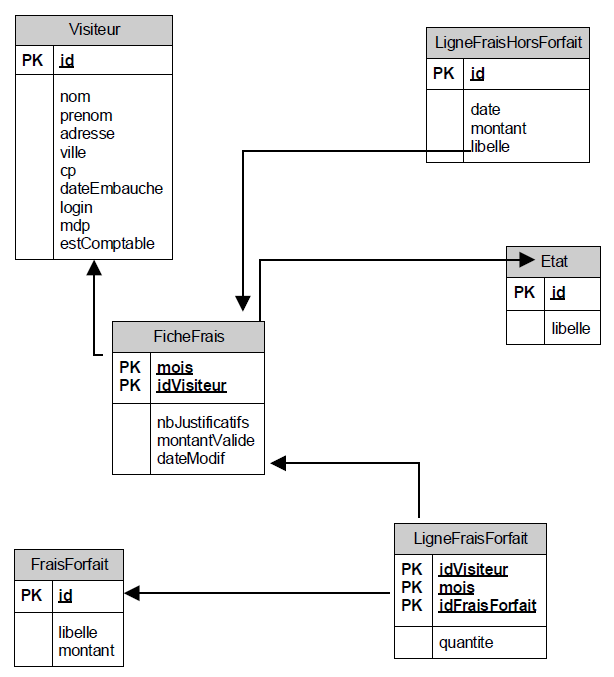
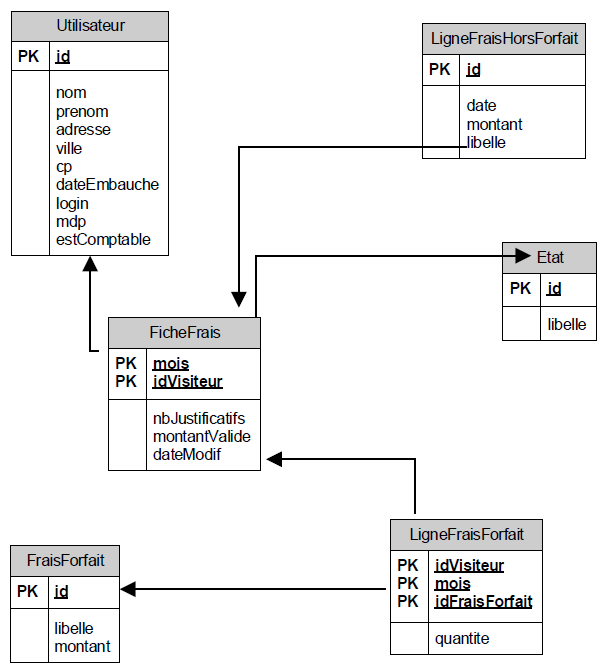
Création page gestion-cloture et modif gsb-frais

diff --git a/pages/competences/developpement-web.php b/pages/competences/developpement-web.php
@@ -6,20 +6,67 @@ require '../../inc/header.php';
 ?>
 
 <!-- 
-Création de sites en PHP/MySQL, HTML, CSS et JavaScript
-Création de ce portfolio en PHP
-Frameworks Symfony (lié à Prestashop)
-CMS Prestashop et Wordpress (description des différents projets)
-Architecture MVC (Modèle – Vue – Contrôleur)
-Bootstrap
+
+
+    VIA SANTE ET SSB BEGGIN
+
+Décrire brièvement mon parcours et la société (aussi ssb) et les 3 sites
+
+VOIR TABLEAU DE SYNTHESE
+-Joindre un maximum de screenshots et code pour prouver-
+
+---LIE AU DEV BEGGIN---
+CMS Prestashop
+    Présenter Prestashop : Framework PHP Symfony, Architecture MVC (Modèle – Vue – Contrôleur), fonctionnement via modules PHP pour pouvoir améliorer le site visuellement ou ajouter de nouvelles fonctionnalités
+    Création d'un module pour la personnalisation de la page "Contact" avec intégration de reCAPTCHA
+
+Travail collaboratif avec une spécialiste du SEM = SEA + SEO + SMO (versionning via GitHub)
+    → Search Engine Marketing =
+        Search Engine Advertising : publicité sur les moteurs de recherche
+        + Search Engine Optimization : référencement naturel
+        + Social Media Optimization : techniques et actions destinées à développer la visibilité, l'image et l'offre d'un site web ou d'une marque sur les réseaux ou médias sociaux
+
+Gestion des tâches grace à Trello et gestion du planning grace à Google Agenda
+
+Interactions lié aux campagne promotionnelles : (toutes les 3 semaines)
+    - extraction de la base de données, de fiches clients sélectionnés pour la promo
+    - formatage des données sur des fichiers Excel pour préparer l'envoi des campagnes e-mailing et envoi à l'imprimeur pour les campagnes courrier
+    - codage d'e-mail personnalisés en php et html
+---LIE AU DEV BEGGIN---
+---AUTRES---
+VOIR TABLEAU DE SYNTHESE
+Espace d'administration sur les 3 différents sites internet : 
+    Création, attribution des droits et gestion des comptes utilisateurs du back office selon le statut de l'employé (direction, comptable, saisie ou préparation de commande).
+Gestion du parc informatique
+    Installations, maintenance et mises à jours (hardware et sofware)
+    Résolution d'incidents sur les postes utilisateur ou sur le serveur
+    Gestion des sauvegardes du serveur et de la base de données
+    Achat, montage et installation de 3 nouveaux PC
+---AUTRES---
+
+Ce que je peux tirer de cette expérience professionnelle : 
+La participation à l'évolution informatique et digitale d'une petite entreprise (et de communiquer et collaborer avec d'autres professionnels), m'ont permis d'avoir une vision globale du potentiel évolutif que cela peut avoir. Gain de productivité, amélioration des ventes, de l'image des marques, mise en place d'un cercle vertueux avec le SMO, de la communication, ... (chercher sur google, les différents atouts de la digitalisation).
+L'inconvénient de travailler en tant que seul informaticien dans une petite entreprise est le fait de devoir gérer tout ce qui touche à l'informatique, allant de simples pannes d'imprimantes à de la création graphique ou de la création de campagnes Google Ads. Cela empêche de pouvoir évoluer rapidement dans une spécialité.
+-RESTRUCTURER AVANTAGES ET INCONVENIENTS ?- 
+
+    VIA SANTE ET SSB END
+
+
+COMPÉTENCES LIEES A CE DOMAINE : 
+    Création de sites en PHP/MySQL, HTML, CSS et JavaScript
+    Création de ce portfolio en PHP
+    CMS Prestashop et Wordpress (description des différents projets)
+    Bootstrap
 
 
 Ce qui me plait dans le développement web
-Je trouve génial de pouvoir créer des sites ou applications et de pouvoir ensuite les rendre facilement accessibles en ligne et ce, sur tous type de support.
+    Je trouve très intérressant de pouvoir créer des sites ou applications et de pouvoir ensuite les rendre facilement accessibles en ligne et ce, sur tous type de support.
 
 
 Mon projet professionnel
 Par la suite, je souhaiterais créer une auto-entreprise afin de proposer mes services dans ce domaine.
+
+
 -->
 
 

diff --git a/pages/projets/gsb-frais.php b/pages/projets/gsb-frais.php
@@ -151,8 +151,8 @@ require '../../inc/header.php';
                     </a>
                 </div>
                 <p class="text-justify">
-                    Pour pouvoir répondre aux besoins du cahier des charges et au différents cas d'utilisation décrits, j'ai ajouté un champ booléen "estcomptable" à la table "visiteur", qui est à 0 (faux) si l'utilisateur est un visiteur et à 1 (vrai) si c'est est un comptable.<br>
-                    Et ajouté de 2 nouvelles lignes à la table "visiteur". Ces lignes correspondent à l'ajout de 2 comptables, la valeur "estcomptable" est donc à 1 (true).
+                    Pour pouvoir répondre aux besoins du cahier des charges et au différents cas d'utilisation décrits, j'ai renommé la table "visiteur" en "utilisateur" et j'y ai ajouté un champ booléen "estcomptable", qui est à 0 (faux) si l'utilisateur est un visiteur et à 1 (vrai) si c'est est un comptable.<br>
+                    J'ai ensuite ajouté de 2 nouvelles lignes à la table "utilisateur", qui correspondent à l'ajout de 2 comptables, la valeur "estcomptable" est donc à 1 (true).
                 </p>
                 <p class="text-justify">
                     J'ai également ajouté à la table "etat", une ligne ayant les valeurs suivantes : <br>
@@ -246,8 +246,8 @@ require '../../inc/header.php';
             <div class="mb-5">
                 <h3 id="item-9">Conclusion</h3>
                 <p class="text-justify">
-                    Grâce à ce projet, je me suis rendu compte de l'importance de travailler sur un IDE avec des extentions comme Xdebug qui permettent de déboguer le code de manière efficace.<br>
-                    J'ai également pris conscience de la praticité de l'architecture MVC dans le développement web. Ce pattron de conception permet de mieux s'y retrouver, les fichiers sont bien organisés dans différents répertoires correspondant aux différentes parties logiques.
+                    Grâce à ce projet, je me suis rendu compte de l'importance de travailler sur un IDE avec des extensions comme Xdebug qui permettent de déboguer le code de manière efficace.<br>
+                    J'ai également pris conscience de la praticité de l'architecture MVC dans le développement web. Ce patron de conception permet de mieux s'y retrouver, les fichiers sont bien organisés dans différents répertoires correspondant aux différentes parties logiques.
                 </p>
             </div>
         </div>

diff --git a/pages/projets/gsb-gestion-cloture.php b/pages/projets/gsb-gestion-cloture.php
@@ -1,0 +1,10 @@
+<?php
+$page_title = "PPE GSB frais | Portfolio de Kévin RIZZO";
+$page_description = "Compte rendu de la création de la partie comptable de l'application web GSB frais | Projet BTS SIO";
+$navbar_section = 'projets';
+require '../../inc/header.php';
+?>
+
+<h1>GSB : gestion de la clôture</h1>
+
+<?php require '../../inc/footer.php'; ?>
